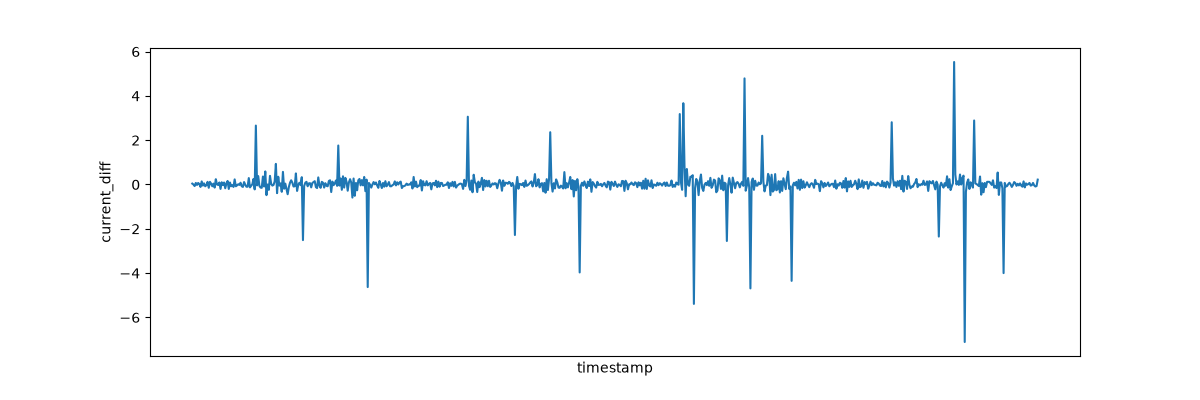
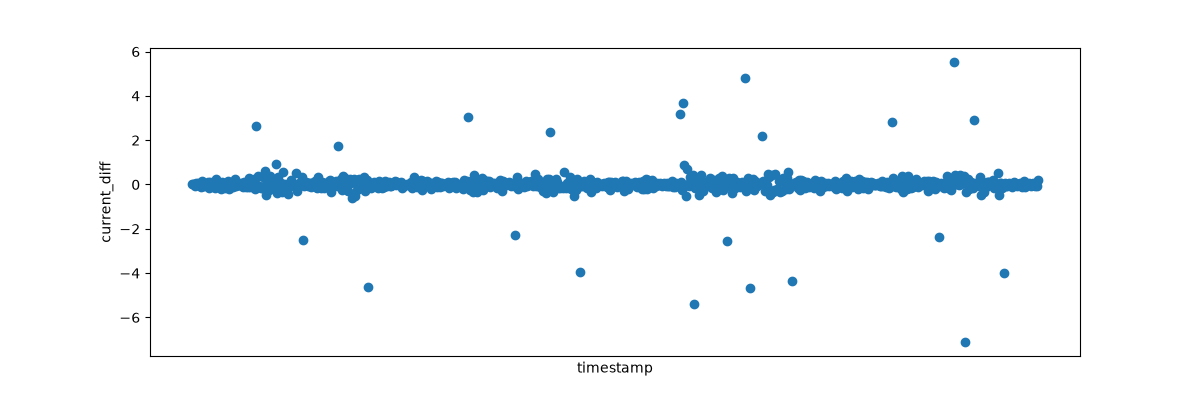
Add anomaly on the graph

diff --git a/utils/visualization.py b/utils/visualization.py
@@ -2,20 +2,29 @@ import matplotlib.pyplot as plt
 from pathlib import Path
 
 class Visualization:
-    def __init__(self,df, path_to_save):
+    def __init__(self,df, path_to_save, not_us = []):
         self.df = df
         self.path_to_save = path_to_save
+        self.not_us = not_us
 
-    def visual(self, name_x, names_y=None):
+    def visual(self, name_x, names_y=None, name_mark = False, not_lin=False):
         if not(names_y):
-            names_y = self.df.columns.drop(name_x).tolist()
+            names_y = self.df.columns.drop([name_x] + self.not_us).tolist()
         if isinstance(names_y,str): names_y = [names_y]
         for name_y in names_y:
             plt.figure(figsize=(12, 4))
             x = self.df[name_x]
             y = self.df[name_y]
 
-            plt.plot(x,y)
+            if not_lin:
+                plt.scatter(x,y)
+            else:
+                plt.plot(x,y)
+
+            if name_mark:
+                x_m = self.df[self.df[name_mark]==True][name_x]
+                y_m = self.df[self.df[name_mark] == True][name_y]
+                plt.scatter(x_m, y_m, color="red")
             plt.xticks([])
             plt.xlabel(name_x)
             plt.ylabel(name_y)

diff --git a/Task1/main.py b/Task1/main.py
@@ -13,7 +13,6 @@ def check_anomaly(row):
         return True
     return False
 
-
 csv_path = Path(__file__).parent.parent / "data" / "telemetry_dzz_sem1.csv"
 df = pd.read_csv(csv_path)
 print(df.describe())
@@ -25,5 +24,5 @@ print(df.head())
 print(df[df["anomaly"] == True])
 
 path_to_save = Path(__file__).parent / "image"
-v = Visualization(df, path_to_save)
-v.visual("timestamp")
+v = Visualization(df, path_to_save, not_us=["anomaly", "mode"])
+v.visual("timestamp", name_mark="anomaly")

diff --git a/Task2/main.py b/Task2/main.py
@@ -48,7 +48,7 @@ df_diff["angular_velocity_diff"] = df['angular_velocity'].diff()
 
 path_to_save = Path(__file__).parent / "image"
 v = Visualization(df_diff, path_to_save)
-v.visual_all("timestamp")
+v.visual("timestamp", not_lin=True)
 
 def check_anomaly(row):
     if abs(row['temperature_diff']) > 5:
